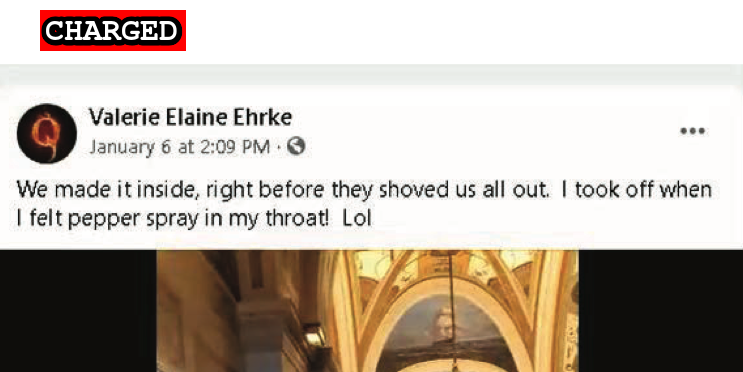
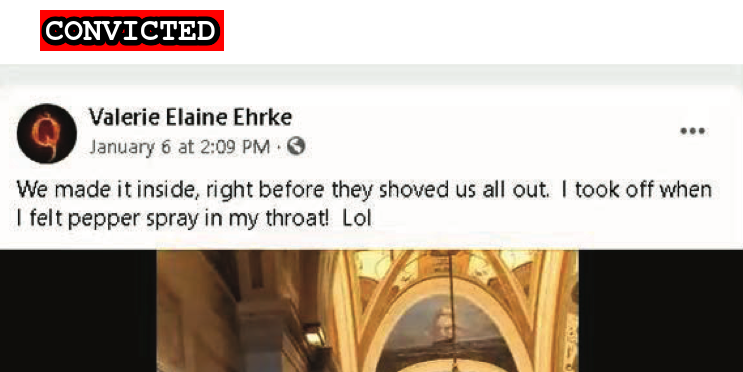
Valerie Ehrke plea

Changed region(s): [[0.0619, 0.0296, 0.3096, 0.1478]]

diff --git a/commands/suspect-convict.ts b/commands/suspect-convict.ts
@@ -31,6 +31,8 @@ const convict = async() => {
       }
 
       writeFile(suspectPath, data)
+      data.match(/\/images\/preview\/(.*)\n/)
+
       execSync(`yarn suspect preview -f ${RegExp.$1} -s Convicted`)
 
       exit()

diff --git a/commands/suspect-indict.ts b/commands/suspect-indict.ts
@@ -31,6 +31,8 @@ const indict = async() => {
       }
 
       writeFile(suspectPath, data)
+      data.match(/\/images\/preview\/(.*)\n/)
+
       execSync(`yarn suspect preview -f ${RegExp.$1} -s Indicted`)
 
       exit()

diff --git a/docs/_suspects/valerie-ehrke.md b/docs/_suspects/valerie-ehrke.md
@@ -3,11 +3,11 @@ name: Valerie Ehrke
 lastName: Ehrke
 aka:
 residence: California
-status: Charged
+status: Convicted
 date: 2021-01-19
 charged: 2021-01-19
 indicted:
-convicted: 
+convicted: 2021-06-30
 sentenced: 
 dismissed: 
 age: 53
